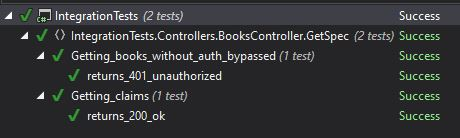
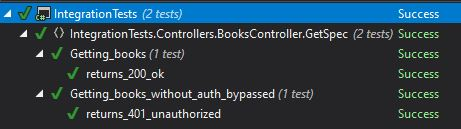
Final fixes to auth bypass sample

diff --git a/bypass-auth-in-integration-tests/IntegrationTests/Controllers/BooksController/GetSpec/Getting_books.cs b/bypass-auth-in-integration-tests/IntegrationTests/Controllers/BooksController/GetSpec/Getting_books.cs
@@ -6,7 +6,7 @@ using Xunit;
 
 namespace IntegrationTests.Controllers.BooksController.GetSpec
 {
-    public class Getting_claims
+    public class Getting_books
     {
         [Fact]
         public async Task returns_200_ok()

diff --git a/bypass-auth-in-integration-tests/README.md b/bypass-auth-in-integration-tests/README.md
@@ -21,7 +21,7 @@ Examples of how to fake this are available [here](IntegrationTests/Infrastructur
 usage [here](IntegrationTests/Infrastructure/Hosting/TestStartup.cs#L9).
 3. Configure *WebApplicationFactory* to use *TestStartup* in your tests.
 [Here](IntegrationTests/Infrastructure/Hosting/MyWebApplicationFactory.cs) is an example of how to
-configure this, and [here](IntegrationTests/Controllers/BooksController/GetSpec/Getting_claims.cs#L17)
+configure this, and [here](IntegrationTests/Controllers/BooksController/GetSpec/Getting_books.cs#L17)
 is an example of how to use it.
 
 ## Additional details
